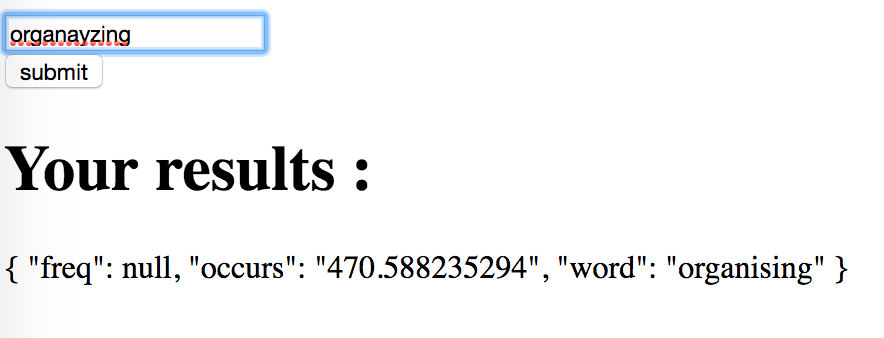
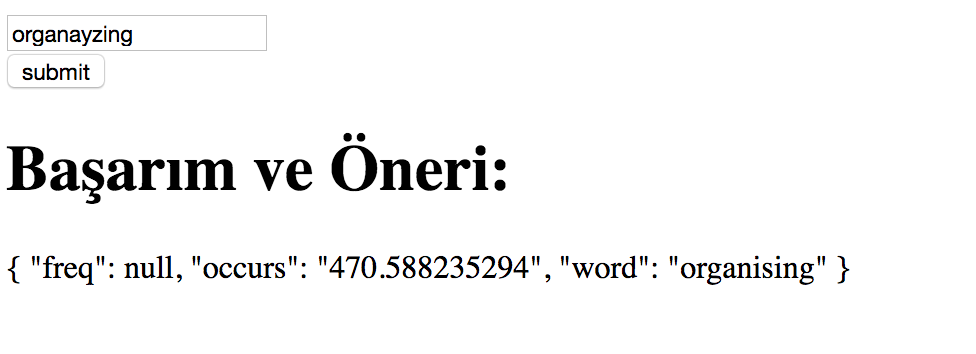
ReadMe changed

Changed region(s): [[0.0, 0.7101, 0.9774, 0.858], [0.0, 0.3846, 0.5192, 0.5917], [0.0, 0.0296, 0.3054, 0.2663]]

diff --git a/FLASK-API/api/interface/templates/enter_data.html b/FLASK-API/api/interface/templates/enter_data.html
@@ -12,7 +12,7 @@
       <input class="btn btn-primary" type="submit" value="submit">
   </form>
 </body>
-<h1>Your results :</h1>
+<h1>Başarım ve Öneri:</h1>
 
 <p>{{api_data}}</p>
 

diff --git a/FLASK-API/api/interface/templates/paragraph.html b/FLASK-API/api/interface/templates/paragraph.html
@@ -12,7 +12,7 @@
       <input class="btn btn-primary" type="submit" value="submit">
   </form>
 </body>
-<h1>Your results :</h1>
+<h1>Başarım ve Öneri:</h1>
 
 <p>{{api_data}}</p>
 

diff --git a/FLASK-API/api/interface/templates/api_result.html b/FLASK-API/api/interface/templates/api_result.html
@@ -1,3 +1,4 @@
-<h1>Your results :</h1>
+<meta charset="utf-8">
+<h1>Başarım ve Öneri :</h1>
 
 <p>{{api_data}}</p>
